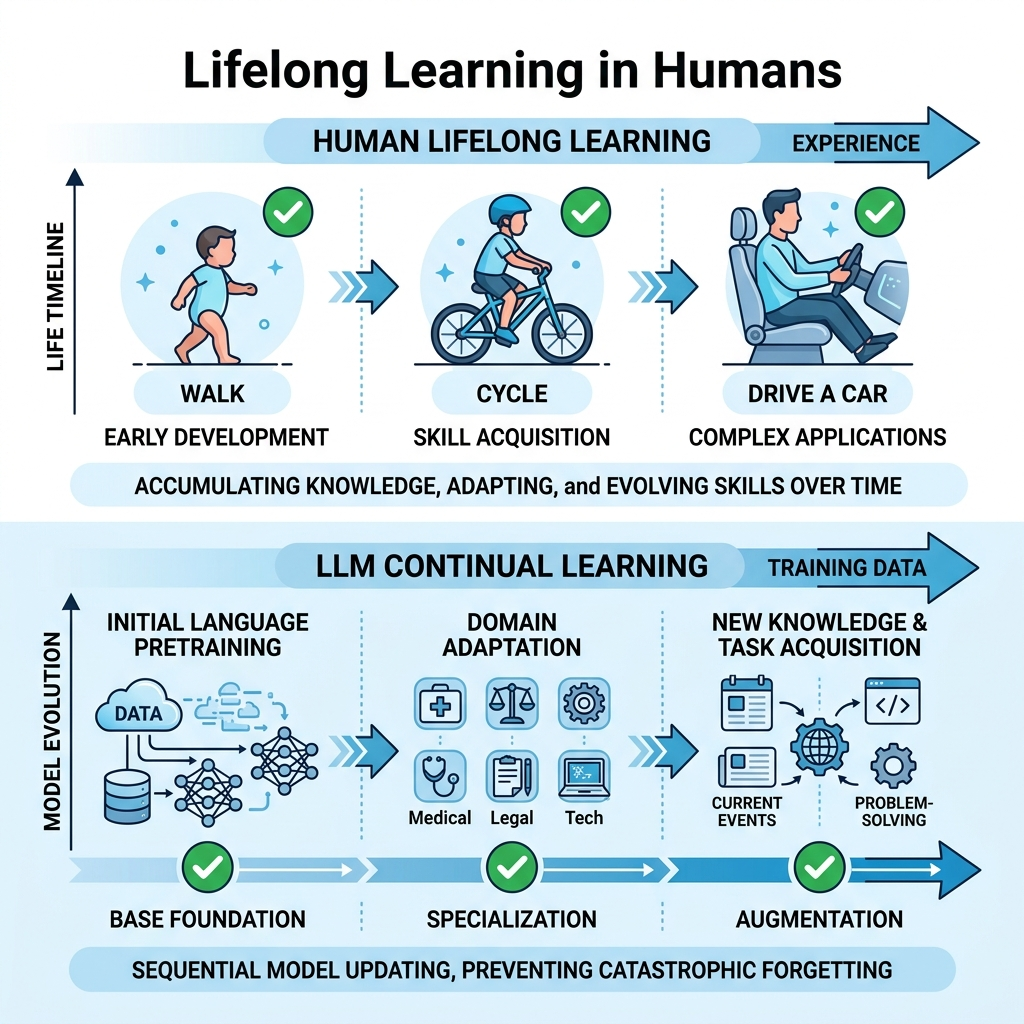
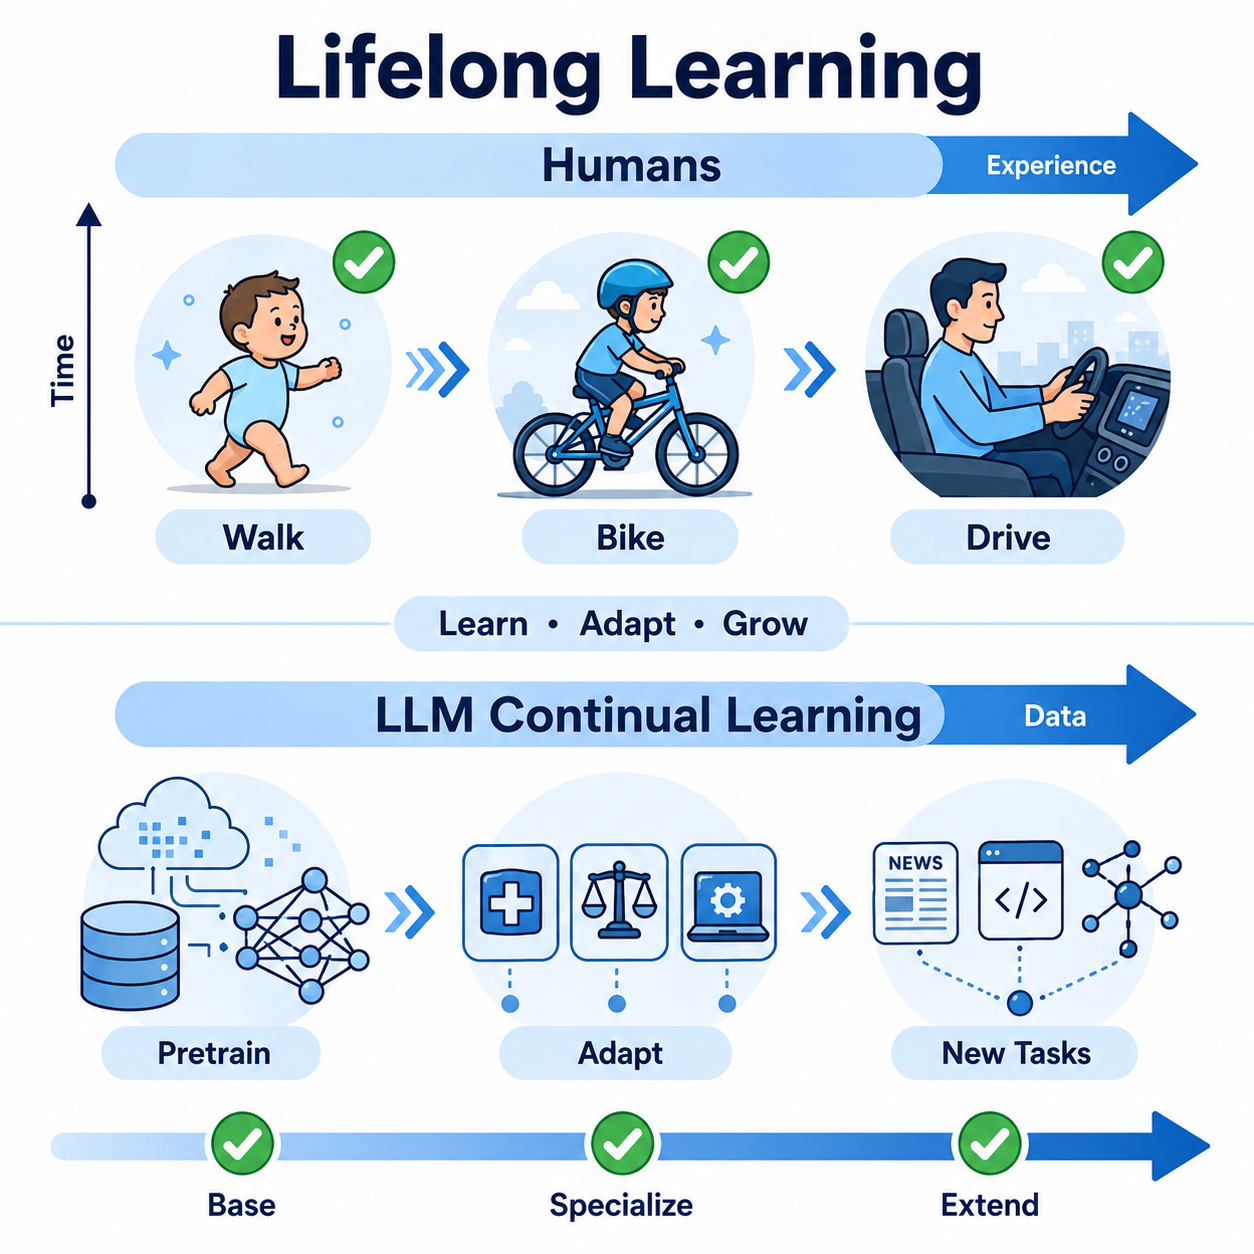
feat: add compare RAG and CL page, add more illustration image

diff --git a/src/lib/learningMdxContent.test.ts b/src/lib/learningMdxContent.test.ts
@@ -79,10 +79,10 @@ const expectedPageCounts: Record<string, number> = {
   'gaussian-elimination': 6,
   'lu-decomposition': 6,
   'identity-inverse-matrix': 6,
-  'continual-learning-llm-overview': 4,
+  'continual-learning-llm-overview': 5,
   'stability-plasticity-dilemma': 2,
   'cl-settings-til-dil-cil': 4,
-  'continual-learning-llm-overview-quiz': 7,
+  'continual-learning-llm-overview-quiz': 8,
   'catastrophic-forgetting-in-llms': 1,
   'catastrophic-forgetting-in-llms-quiz': 4,
   'catastrophic-forgetting-code-lab': 8,
@@ -97,7 +97,7 @@ const expectedPageCounts: Record<string, number> = {
 const expectedQuizQuestionIds: Record<string, string[]> = {
   'catastrophic-forgetting-code-lab-quiz': ['code-lab-forgetting-phenomenon', 'code-lab-cause-of-forgetting', 'code-lab-metric-sensitivity', 'code-lab-solutions-forward'],
   'catastrophic-forgetting-in-llms-quiz': ['catastrophic-forgetting-definition', 'why-new-task-causes-forgetting', 'llm-cl-unique-challenges', 'pattern-and-accuracy-behavior'],
-  'continual-learning-llm-overview-quiz': ['statically-pretrained-nature', 'why-static-llm-insufficient', 'why-not-retrain-from-scratch', 'cl-core-goal', 'cl-core-challenge', 'lifelong-learning-analogy', 'method-choice'],
+  'continual-learning-llm-overview-quiz': ['statically-pretrained-nature', 'why-static-llm-insufficient', 'why-not-retrain-from-scratch', 'rag-vs-continual-learning', 'cl-core-goal', 'cl-core-challenge', 'lifelong-learning-analogy', 'method-choice'],
   'cl-methods-taxonomy-and-replay-quiz': ['cl-method-families', 'optimization-based-cl', 'representation-based-cl'],
   'replay-introduction-quiz': ['replay-training-objective', 'replay-constraints', 'replay-bound-tradeoff'],
   'replay-experience-code-lab-quiz': ['replay-lab-comparison', 'replay-lab-environment-config', 'replay-lab-data-separation', 'replay-lab-tokenization-pipeline', 'replay-lab-evaluation-metrics', 'replay-lab-training-helper', 'replay-lab-naive-result', 'replay-lab-buffer-composition', 'replay-lab-retention-result', 'replay-lab-spurious-forgetting-nuance', 'replay-lab-operational-takeaway', 'replay-lab-multiseed-design', 'replay-lab-threshold-evidence', 'replay-lab-paper-mapping', 'replay-lab-paper-scope'],
@@ -205,8 +205,8 @@ test('continual-learning quizzes vary correct positions and keep one defensible 
   const singleQuestions = questions.filter((question) => question.mode === 'single');
   const multiQuestions = questions.filter((question) => question.mode === 'multi');
 
-  assert.equal(questions.length, 157);
-  assert.equal(singleQuestions.length, 156);
+  assert.equal(questions.length, 158);
+  assert.equal(singleQuestions.length, 157);
   assert.equal(multiQuestions.length, 1);
   assert.equal(multiQuestions[0]?.id, 'replay-constraints');
   assert.ok(questions.every((question) => question.optionCount === 4));
@@ -244,8 +244,8 @@ test('continual-learning quizzes vary correct positions and keep one defensible 
       if (question.mode === 'single') singlePositionCounts[index] += 1;
     }
   }
-  assert.deepEqual([...singlePositionCounts].sort((a, b) => a - b), [39, 39, 39, 39]);
-  assert.deepEqual([...allCorrectFlagCounts].sort((a, b) => a - b), [39, 39, 40, 40]);
+  assert.deepEqual([...singlePositionCounts].sort((a, b) => a - b), [39, 39, 39, 40]);
+  assert.deepEqual([...allCorrectFlagCounts].sort((a, b) => a - b), [39, 40, 40, 40]);
 
   const sequenceCounts = new Map<string, number>();
   for (const inspection of quizInspections) {

diff --git a/docs/plans/2026-08-08-continual-learning-llm-domain.md b/docs/plans/2026-08-08-continual-learning-llm-domain.md
@@ -315,6 +315,14 @@ content, quiz, illustration, and lab iterations completed on the feature branch.
   Matplotlib plot and asset, unused plotting/helper imports, duplicate seed
   calls, the unused NLL-threshold constant, and unconsumed qualitative-example
   storage; aligned the lesson metadata with the revised baseline-summary title.
+- 2026-08-11 — Added a beginner-facing RAG comparison to the course overview:
+  retrieval changes inference context while continual adaptation targets model
+  capability or behavior that must persist without a retrieved document. Added
+  matching quiz coverage and bounded cross-references in Financial and
+  Scientific DAP, CMR, and controllable-memory future directions, including
+  ClimateGPT as a hybrid DAP, instruction-tuning, and retrieval-augmentation
+  example. The quiz bank now contains 158 questions, with the 157 single-choice
+  answers distributed as evenly as mathematically possible across A/B/C/D.
 
 # Verification
 
